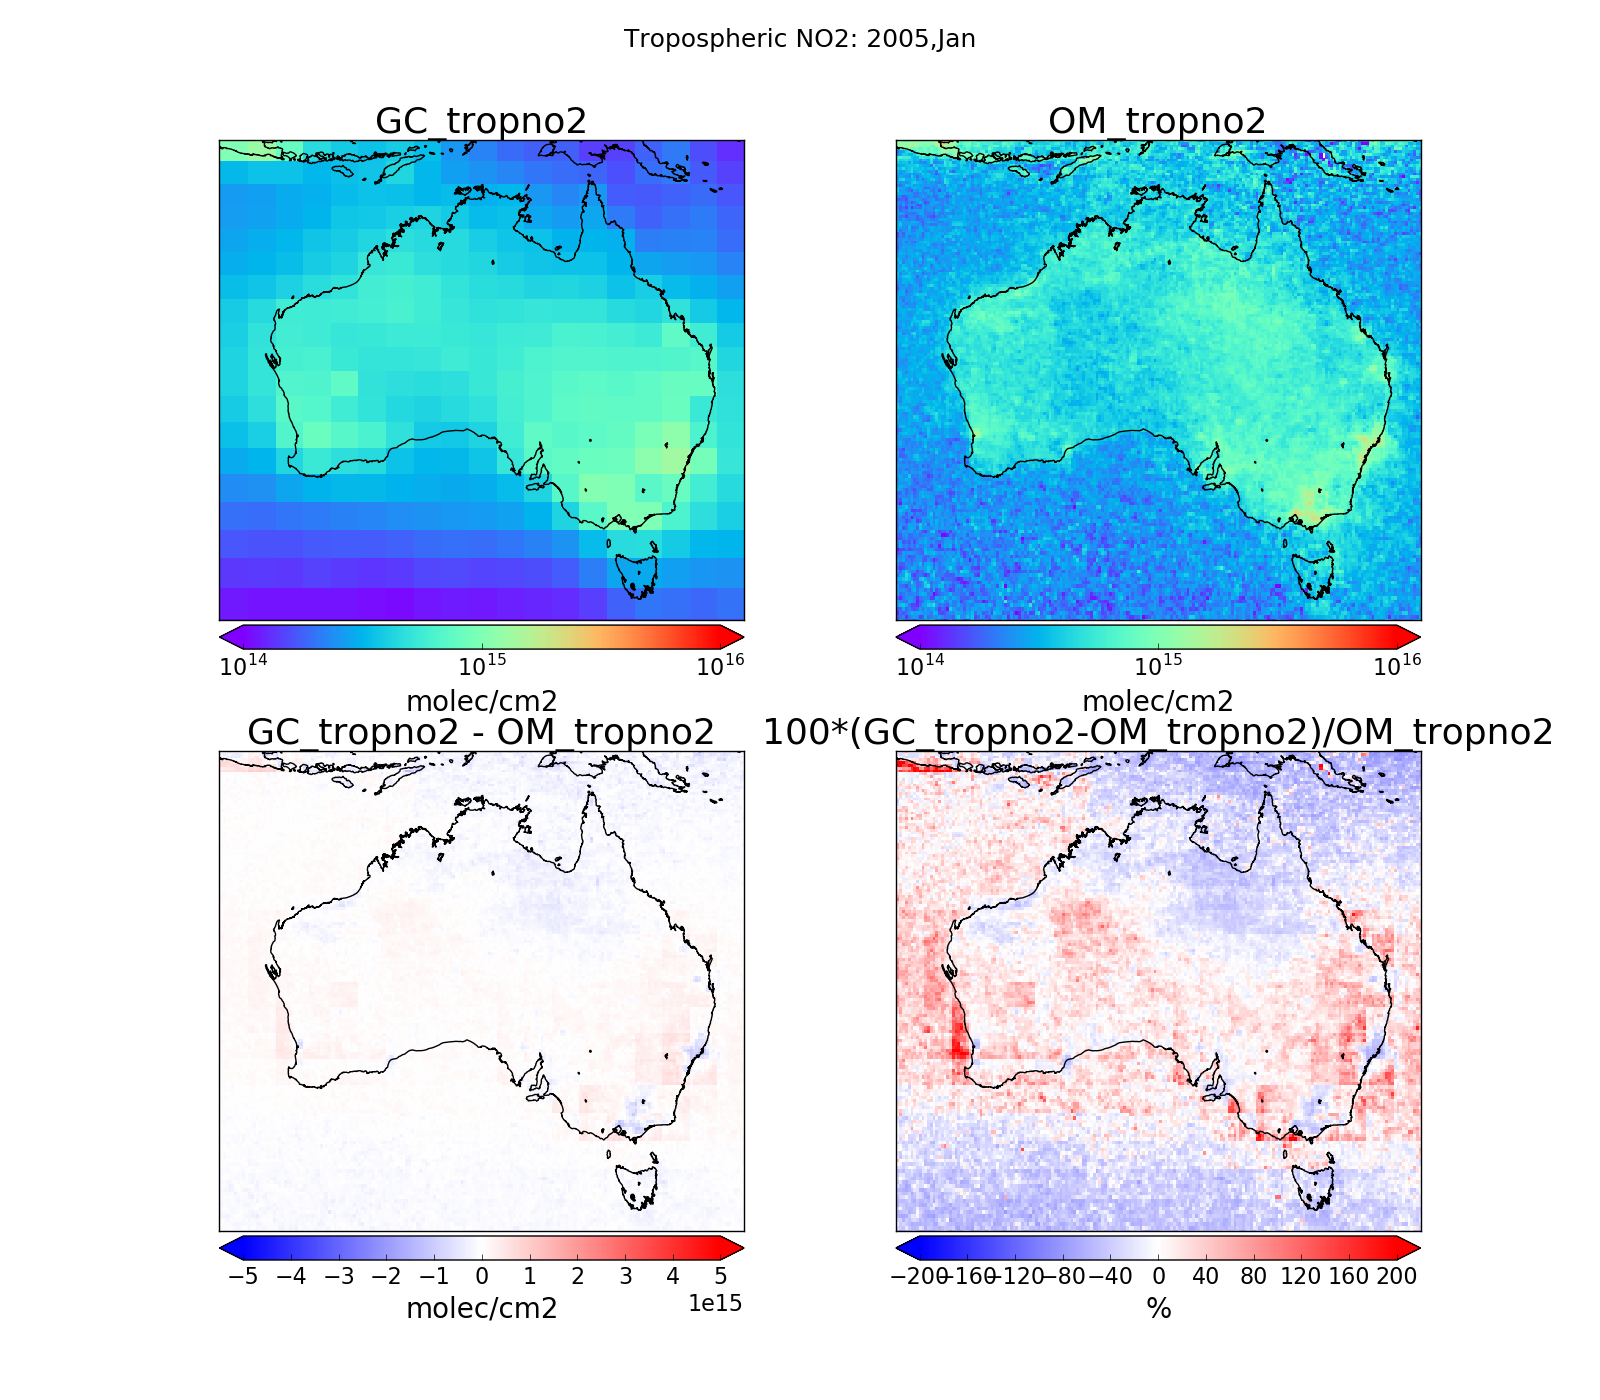
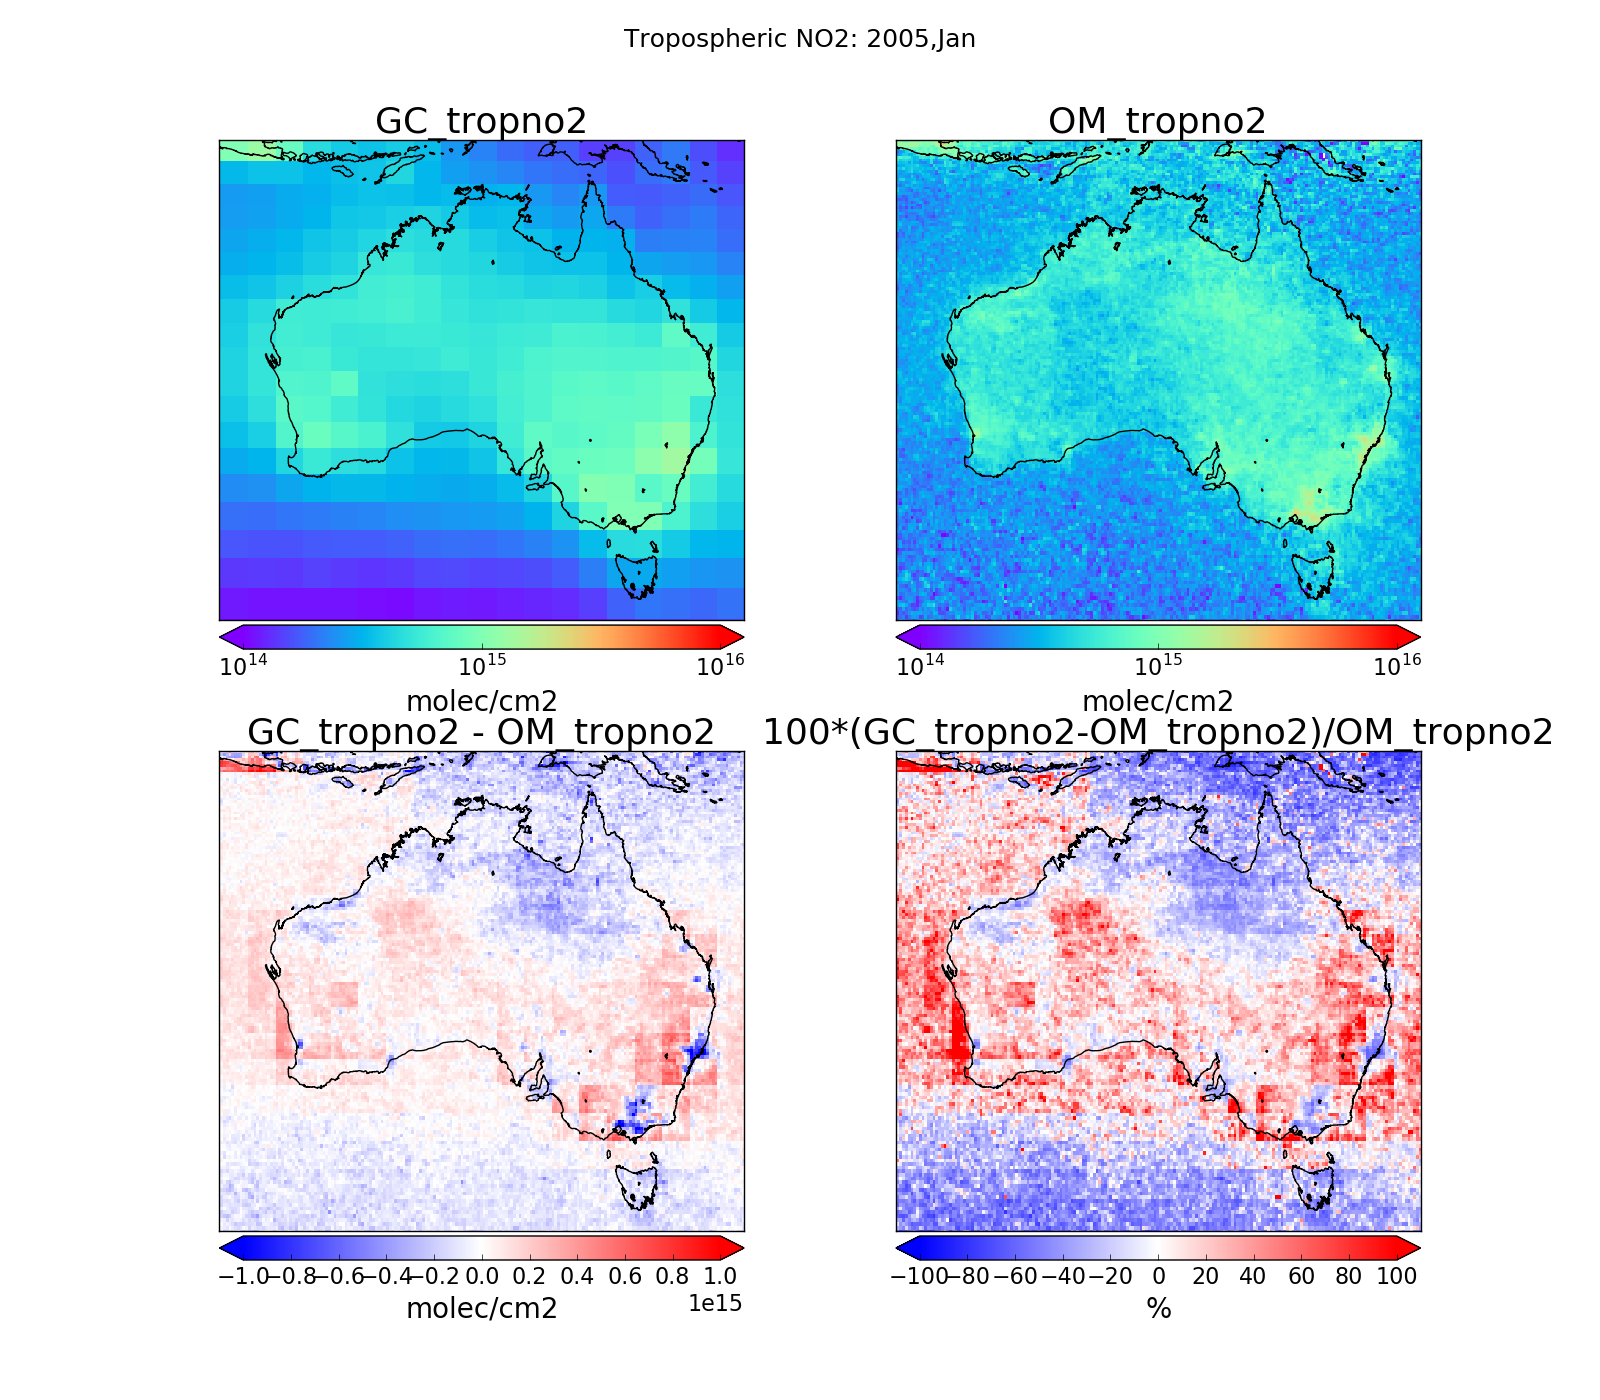
Added lowres OMNO2d plot

Changed region(s): [[0.5625, 0.5221, 0.9062, 0.9214], [0.125, 0.5221, 0.4688, 0.9214]]

diff --git a/GC_tests.py b/GC_tests.py
@@ -60,7 +60,6 @@ def GC_vs_OMNO2d(month=datetime(2005,1,1),region=pp.__AUSREGION__):
     GC_tropno2=np.nanmean(GC_tropno2,axis=0) # Average over month
     GC_lats,GC_lons=GC.lats,GC.lons
     
-    # reduce OMI resolution to that of GEOS-Chem:
     
     
     pname='Figs/GC/GC_vs_OMNO2_sat_%s.png'%month.strftime('%Y%m')
@@ -72,6 +71,8 @@ def GC_vs_OMNO2d(month=datetime(2005,1,1),region=pp.__AUSREGION__):
                                       vmin=1e14,vmax=1e16, amin=-1e15,amax=1e15,
                                       rmin=-100,rmax=100,
                                       clabel='molec/cm2',pname=pname)
+    
+    
     # pull out region:
     lati,loni=util.lat_lon_range(OM_lats,OM_lons,region)
     gc_tno2=gc_tno2[lati,:]
@@ -81,6 +82,35 @@ def GC_vs_OMNO2d(month=datetime(2005,1,1),region=pp.__AUSREGION__):
     print()
     print('avg of gc/om',np.nanmean(gc_tno2/om_tno2))
     print('avg of (gc-om)/om ', np.nanmean((gc_tno2-om_tno2) / om_tno2))
+    
+    
+    lati,loni=util.lat_lon_range(GC_lats,GC_lons,region)
+    GC_tropno2=GC_tropno2[lati,:]
+    GC_tropno2=GC_tropno2[:,loni]
+    GC_lats=GC_lats[lati]
+    GC_lons=GC_lons[loni]
+    GC_lats_e=util.edges_from_mids(GC_lats)
+    GC_lons_e=util.edges_from_mids(GC_lons)
+    
+    OM_low=np.zeros([len(GC_lats),len(GC_lons)]) + np.NaN
+    # reduce OMI resolution to that of GEOS-Chem:
+    for i in range(len(GC_lats)):
+        for j in range(len(GC_lons)):
+            lati= (OM_lats >= GC_lats_e[i]) * (OM_lats < GC_lats_e[i+1])
+            loni= (OM_lons >= GC_lons_e[j]) * (OM_lons < GC_lons_e[j+1])
+            tmp=OM_tropno2[lati,:]
+            tmp=tmp[:,loni]
+            OM_low[i,j]=np.nanmean(tmp)
+    pname='Figs/GC/GC_vs_OMNO2_sat_lowres_%s.png'%month.strftime('%Y%m')
+    
+    gc_tno2,om_tno2 = pp.compare_maps([GC_tropno2,OM_low],
+                                      [GC_lats,GC_lats],[GC_lons,GC_lons],
+                                      region=region,
+                                      titles=['GC_tropno2','OM_tropno2'],
+                                      suptitle='Tropospheric NO2: 2005,Jan',
+                                      vmin=1e14,vmax=1e16, amin=-1e15,amax=1e15,
+                                      rmin=-100,rmax=100,
+                                      clabel='molec/cm2',pname=pname)
     
 
 def GC_vs_OMI(month=datetime(2005,1,1),region=pp.__AUSREGION__):
@@ -610,7 +640,7 @@ def check_shapefactors(date=datetime(2005,1,1)):
 if __name__=='__main__':
     pp.InitMatplotlib()
     #GC_vs_OMI()
-    for month in util.list_months(datetime(2005,2,1),datetime(2005,3,1)):
+    for month in util.list_months(datetime(2005,1,1),datetime(2005,3,1)):
         GC_vs_OMNO2d(month=month)
     #GC_vs_OMNO2d(month=datetime(2005,1,1))
     #compare_to_campaigns_daily_cycle()
